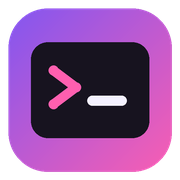
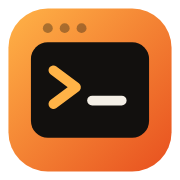
docs(site): cetla colors, 0.2.0 updater and theme cards, rename fixes
Claude-Session: https://claude.ai/code/session_01BhpwkssDtT2aWTA5A7R8PB

diff --git a/docs/assets/site.css b/docs/assets/site.css
@@ -5,38 +5,38 @@
   --font-display: "Inter", "Segoe UI Variable Display", "Segoe UI", system-ui, -apple-system, sans-serif;
   --mono: "JetBrains Mono", "Cascadia Code", ui-monospace, "SF Mono", Consolas, Menlo, monospace;
 
-  --bg: #FBFAFF;
-  --bg-band: #F3F0FF;
-  --surface: #FFFFFF;
-  --surface-2: #F8F6FF;
-  --ink: #1B1626;
-  --ink-2: #3F3850;
-  --muted: #6B6480;
-  --line: rgb(60 40 110 / 0.12);
-  --line-strong: rgb(60 40 110 / 0.24);
-  --hover: rgb(60 40 110 / 0.06);
-  --link: #5B3FD6;
-  --accent: #7D56F4;
-  --accent-hover: #6A44E6;
+  --bg: #F4EFE6;
+  --bg-band: #EBE4D8;
+  --surface: #FBF8F2;
+  --surface-2: #F1EBE0;
+  --ink: #14120F;
+  --ink-2: #4A453D;
+  --muted: #7A7368;
+  --line: rgb(60 45 25 / 0.14);
+  --line-strong: rgb(60 45 25 / 0.26);
+  --hover: rgb(60 45 25 / 0.06);
+  --link: #C2410C;
+  --accent: #E8501F;
+  --accent-hover: #D0441A;
   --on-accent: #FFFFFF;
-  --pink: #FF5FAF;
-  --mint: #2FBF8F;
-  --amber: #E0A020;
-  --glow: rgb(125 86 244 / 0.28);
-  --code-bg: rgb(80 50 160 / 0.08);
-  --term-bg: #17131F;
-  --term-ink: #ECE8F6;
-  --term-dim: #8E86A6;
+  --pink: #FF6A3D;
+  --mint: #1F9D55;
+  --amber: #D98A1C;
+  --glow: rgb(232 80 31 / 0.22);
+  --code-bg: rgb(120 80 30 / 0.09);
+  --term-bg: #12100E;
+  --term-ink: #F4EFE6;
+  --term-dim: #8E867A;
   --focus: #2F6FDB;
-  --header-bg: rgb(251 250 255 / 0.84);
-  --callout-bg: rgb(255 255 255 / 0.7);
+  --header-bg: rgb(244 239 230 / 0.84);
+  --callout-bg: rgb(251 248 242 / 0.7);
   --warn-bg: #FFF4E5;
   --warn-ink: #7A4B00;
   --warn-line: rgb(224 160 32 / 0.35);
 
-  --shadow-sm: 0 1px 2px rgb(30 10 70 / 0.05), 0 2px 8px rgb(30 10 70 / 0.05);
-  --shadow-md: 0 1px 2px rgb(30 10 70 / 0.06), 0 14px 34px -12px rgb(30 10 70 / 0.25);
-  --shadow-lg: 0 2px 4px rgb(30 10 70 / 0.05), 0 30px 70px -24px rgb(30 10 70 / 0.35);
+  --shadow-sm: 0 1px 2px rgb(40 25 10 / 0.05), 0 2px 8px rgb(40 25 10 / 0.05);
+  --shadow-md: 0 1px 2px rgb(40 25 10 / 0.06), 0 14px 34px -12px rgb(40 25 10 / 0.25);
+  --shadow-lg: 0 2px 4px rgb(40 25 10 / 0.05), 0 30px 70px -24px rgb(40 25 10 / 0.35);
 
   --radius: 14px;
   --header-h: 64px;
@@ -46,25 +46,25 @@
 
 @media (prefers-color-scheme: dark) {
   :root:not([data-theme="light"]) {
-    --bg: #110E18;
-    --bg-band: #17131F;
-    --surface: #1C1727;
-    --surface-2: #221C30;
-    --ink: #EFEAF8;
-    --ink-2: #CFC7E0;
-    --muted: #9A91B3;
-    --line: rgb(220 205 255 / 0.12);
-    --line-strong: rgb(220 205 255 / 0.24);
-    --hover: rgb(220 205 255 / 0.07);
-    --link: #B9A4FF;
-    --accent: #9A79FF;
-    --accent-hover: #AB8FFF;
-    --on-accent: #120B24;
-    --glow: rgb(154 121 255 / 0.3);
-    --code-bg: rgb(190 170 255 / 0.1);
-    --term-bg: #0D0B12;
-    --header-bg: rgb(17 14 24 / 0.84);
-    --callout-bg: rgb(28 23 39 / 0.7);
+    --bg: #12100E;
+    --bg-band: #1A1815;
+    --surface: #1C1A17;
+    --surface-2: #221F1B;
+    --ink: #F4EFE6;
+    --ink-2: #C9C1B4;
+    --muted: #8E867A;
+    --line: rgb(244 239 230 / 0.10);
+    --line-strong: rgb(244 239 230 / 0.22);
+    --hover: rgb(244 239 230 / 0.06);
+    --link: #FFB347;
+    --accent: #FF6A3D;
+    --accent-hover: #FF825C;
+    --on-accent: #14120F;
+    --glow: rgb(255 106 61 / 0.26);
+    --code-bg: rgb(255 179 71 / 0.10);
+    --term-bg: #0B0A09;
+    --header-bg: rgb(18 16 14 / 0.84);
+    --callout-bg: rgb(28 26 23 / 0.7);
     --warn-bg: #2A2110;
     --warn-ink: #F3C56B;
     --warn-line: rgb(224 160 32 / 0.4);
@@ -75,25 +75,25 @@
   }
 }
 :root[data-theme="dark"] {
-  --bg: #110E18;
-  --bg-band: #17131F;
-  --surface: #1C1727;
-  --surface-2: #221C30;
-  --ink: #EFEAF8;
-  --ink-2: #CFC7E0;
-  --muted: #9A91B3;
-  --line: rgb(220 205 255 / 0.12);
-  --line-strong: rgb(220 205 255 / 0.24);
-  --hover: rgb(220 205 255 / 0.07);
-  --link: #B9A4FF;
-  --accent: #9A79FF;
-  --accent-hover: #AB8FFF;
-  --on-accent: #120B24;
-  --glow: rgb(154 121 255 / 0.3);
-  --code-bg: rgb(190 170 255 / 0.1);
-  --term-bg: #0D0B12;
-  --header-bg: rgb(17 14 24 / 0.84);
-  --callout-bg: rgb(28 23 39 / 0.7);
+  --bg: #12100E;
+  --bg-band: #1A1815;
+  --surface: #1C1A17;
+  --surface-2: #221F1B;
+  --ink: #F4EFE6;
+  --ink-2: #C9C1B4;
+  --muted: #8E867A;
+  --line: rgb(244 239 230 / 0.10);
+  --line-strong: rgb(244 239 230 / 0.22);
+  --hover: rgb(244 239 230 / 0.06);
+  --link: #FFB347;
+  --accent: #FF6A3D;
+  --accent-hover: #FF825C;
+  --on-accent: #14120F;
+  --glow: rgb(255 106 61 / 0.26);
+  --code-bg: rgb(255 179 71 / 0.10);
+  --term-bg: #0B0A09;
+  --header-bg: rgb(18 16 14 / 0.84);
+  --callout-bg: rgb(28 26 23 / 0.7);
   --warn-bg: #2A2110;
   --warn-ink: #F3C56B;
   --warn-line: rgb(224 160 32 / 0.4);
@@ -196,7 +196,7 @@ pre code { background: none; padding: 0; font-size: inherit; color: inherit; }
 .hero { padding: clamp(48px, 7vw, 96px) 0 clamp(32px, 5vw, 64px); position: relative; }
 .hero::before {
   content: ""; position: absolute; inset: -200px 0 auto; height: 620px; z-index: -1;
-  background: radial-gradient(60% 50% at 30% 30%, var(--glow), transparent 70%), radial-gradient(40% 40% at 80% 20%, rgb(255 95 175 / 0.18), transparent 70%);
+  background: radial-gradient(60% 50% at 30% 30%, var(--glow), transparent 70%), radial-gradient(40% 40% at 80% 20%, rgb(255 179 71 / 0.18), transparent 70%);
   pointer-events: none;
 }
 .hero-grid { display: grid; gap: 40px; align-items: center; }
@@ -230,11 +230,11 @@ pre code { background: none; padding: 0; font-size: inherit; color: inherit; }
 .feature-copy li { margin-bottom: 6px; }
 .term { border-radius: 14px; overflow: hidden; box-shadow: var(--shadow-md); border: 1px solid var(--line); background: var(--term-bg); }
 .term-bar { display: flex; align-items: center; gap: 6px; padding: 10px 14px; background: rgb(255 255 255 / 0.04); border-bottom: 1px solid rgb(255 255 255 / 0.06); font-family: var(--mono); font-size: 12px; color: var(--term-dim); }
-.term-bar i { width: 10px; height: 10px; border-radius: 50%; background: #5A5570; display: inline-block; }
+.term-bar i { width: 10px; height: 10px; border-radius: 50%; background: #433D35; display: inline-block; }
 .term-bar i:nth-child(1) { background: #FF5F57; } .term-bar i:nth-child(2) { background: #FEBC2E; } .term-bar i:nth-child(3) { background: #28C840; }
 .term-bar span { margin-left: 8px; }
 .term pre { border-radius: 0; }
-.t-dim { color: var(--term-dim); } .t-ok { color: #4ADE80; } .t-warn { color: #FBBF24; } .t-acc { color: #C4B5FD; } .t-pink { color: #FF8FC8; }
+.t-dim { color: var(--term-dim); } .t-ok { color: #3DDC84; } .t-warn { color: #F5D08A; } .t-acc { color: #FFB347; } .t-pink { color: #FF6A3D; }
 
 /* ---------- checklist (safety) ---------- */
 .checks { list-style: none; padding: 0; margin: 0; display: grid; gap: 12px; grid-template-columns: repeat(auto-fit, minmax(280px, 1fr)); }
@@ -290,7 +290,7 @@ pre code { background: none; padding: 0; font-size: inherit; color: inherit; }
 
 /* ---------- lightbox ---------- */
 dialog.lightbox { border: 0; padding: 0; background: transparent; max-width: min(96vw, 1400px); }
-dialog.lightbox::backdrop { background: rgb(10 5 20 / 0.85); }
+dialog.lightbox::backdrop { background: rgb(12 10 8 / 0.85); }
 dialog.lightbox img { border-radius: 12px; max-height: 92vh; width: auto; }
 
 /* ---------- 404 ---------- */

diff --git a/docs/index.html b/docs/index.html
@@ -7,8 +7,8 @@
   <meta name="description" content="A terminal coding agent, forked from Charm's Crush, that talks to nobody but the model providers and MCP servers you configure. No telemetry, web tools off by default, untrusted projects stay inert, and it imports your OpenCode setup. Windows, macOS and Linux.">
   <link rel="canonical" href="https://tada.cetla.dev/">
   <meta name="color-scheme" content="light dark">
-  <meta name="theme-color" content="#FBFAFF" media="(prefers-color-scheme: light)">
-  <meta name="theme-color" content="#110E18" media="(prefers-color-scheme: dark)">
+  <meta name="theme-color" content="#F4EFE6" media="(prefers-color-scheme: light)">
+  <meta name="theme-color" content="#12100E" media="(prefers-color-scheme: dark)">
   <link rel="icon" type="image/svg+xml" href="assets/icon.svg">
   <link rel="icon" type="image/png" sizes="64x64" href="assets/favicon.png">
   <link rel="apple-touch-icon" sizes="180x180" href="assets/apple-touch-icon.png">
@@ -126,7 +126,15 @@
           </article>
           <article class="card">
             <h3><span class="ico"><svg viewBox="0 0 24 24" fill="none" stroke="currentColor" stroke-width="2" stroke-linecap="round" stroke-linejoin="round" aria-hidden="true"><path d="M20 7 12 3 4 7l8 4 8-4zM4 7v10l8 4 8-4V7M12 11v10"/></svg></span>Reviewable releases</h3>
-            <p>Every tag builds six archives in a public GitHub Actions run with pinned actions, ships a <code>SHA256SUMS.txt</code>, and lands as a draft release that is reviewed before it is published.</p>
+            <p>Every tag builds six archives and two Windows installers in a public GitHub Actions run with pinned actions, ships a <code>SHA256SUMS.txt</code>, and lands as a draft release that is reviewed before it is published.</p>
+          </article>
+          <article class="card">
+            <h3><span class="ico"><svg viewBox="0 0 24 24" fill="none" stroke="currentColor" stroke-width="2" stroke-linecap="round" stroke-linejoin="round" aria-hidden="true"><path d="M21 12a9 9 0 1 1-3-6.7L21 8"/><path d="M21 3v5h-5M12 8v5l3 2"/></svg></span>Updates when you say so</h3>
+            <p><code>tada update</code> fetches the newest release, checks it against <code>SHA256SUMS.txt</code> and swaps the binary in place. Ta-Da mentions a new version once; it never downloads on its own, and the check can be turned off.</p>
+          </article>
+          <article class="card">
+            <h3><span class="ico"><svg viewBox="0 0 24 24" fill="none" stroke="currentColor" stroke-width="2" stroke-linecap="round" stroke-linejoin="round" aria-hidden="true"><path d="M12 3l1.8 4.6L18.5 9l-4.7 1.4L12 15l-1.8-4.6L5.5 9l4.7-1.4z"/><path d="M19 15l.8 2 2 .8-2 .8-.8 2-.8-2-2-.8 2-.8zM5 16l.6 1.4L7 18l-1.4.6L5 20l-.6-1.4L3 18l1.4-.6z"/></svg></span>Its own look</h3>
+            <p>A warm "cetla" theme, a Ta-Da wordmark and a short startup flourish (any key skips it; <code>TADA_NO_INTRO=1</code> turns it off). Charm's themes are still in the picker.</p>
           </article>
         </div>
       </div>
@@ -193,7 +201,7 @@
           <li><strong>OAuth refresh</strong> for accounts you signed in with <code>tada login</code>.</li>
           <li class="still"><strong>Web tools, only once enabled</strong> and only after you approve each request.</li>
           <li class="still"><strong>Catalog refresh, only on request</strong> with <code>tada update-providers</code>.</li>
-          <li class="still"><strong>Update check, unless turned off.</strong> At most every 6 hours, one request to <code>api.github.com</code> for this repo's latest release; downloads only when you run <code>tada update</code>. Off with <code>options.update_check: false</code> or <code>TADA_NO_UPDATE_CHECK=1</code>.</li>
+          <li class="still"><strong>Update check, unless turned off.</strong> At most every 6 hours, one request to <code>api.github.com</code> for this repo's latest release; downloads only when you run <code>tada update</code>. Off with <code>options.update_check: false</code>, <code>option update-check false</code> or <code>TADA_NO_UPDATE_CHECK=1</code>.</li>
           <li><strong>Nothing else.</strong> No telemetry, no crash reports, no other startup fetches.</li>
         </ul>
         <p class="legend"><i style="background:var(--mint)"></i>always, to hosts you chose <i style="background:var(--amber)"></i>opt-in or can be turned off</p>
@@ -252,7 +260,7 @@
           </article>
         </div>
 
-        <p class="callout">Package managers (Homebrew, npm, AUR, Nix) install <em>upstream</em> Ta-Da, not this build. Get it from the downloads above or build from source.</p>
+        <p class="callout">Package managers (Homebrew, npm, AUR, Nix) install Charm's <em>upstream</em> Crush, not Ta-Da. Get it from the downloads above or build from source.</p>
 
         <div class="verify">
           <div>
@@ -307,8 +315,16 @@ go build -o tada .
             <p>Yes: <code>option web-tools true</code> inside Ta-Da, <code>options.enable_web_tools: true</code> in config, or <code>TADA_ENABLE_WEB_TOOLS=1</code>. Each fetch still asks for permission, and downloads are size-capped.</p>
           </details>
           <details>
+            <summary>How do I update?</summary>
+            <p>Run <code>tada update</code> (add <code>--check</code> to only look, or <code>-y</code> to skip the prompt). It downloads the release for your platform, verifies it against <code>SHA256SUMS.txt</code> and replaces the binary. On Windows with the installer, quit Ta-Da first, or just run the new Setup.exe; it upgrades in place.</p>
+          </details>
+          <details>
+            <summary>I used this fork when it was called Crush. What happens to my setup?</summary>
+            <p>On first run Ta-Da copies <code>~/.config/crush</code> and <code>~/.local/share/crush</code> into its own folders and still reads <code>CRUSH_*</code> variables, <code>.crush/skills</code> and <code>.crushignore</code>. Per-project session history in <code>.crush/</code> isn't moved. The 0.2.0 Windows installer replaces the old <code>crush.exe</code> and its shortcuts.</p>
+          </details>
+          <details>
             <summary>What license is it under?</summary>
-            <p><a href="https://github.com/ItsCetla/tada/blob/main/LICENSE.md">FSL-1.1-MIT</a>, the same Functional Source License as upstream Ta-Da. You may use, copy, modify and redistribute it for anything except a competing product; each version becomes MIT two years after its release.</p>
+            <p><a href="https://github.com/ItsCetla/tada/blob/main/LICENSE.md">FSL-1.1-MIT</a>, the same Functional Source License as upstream Crush. You may use, copy, modify and redistribute it for anything except a competing product; each version becomes MIT two years after its release.</p>
           </details>
         </div>
       </div>
